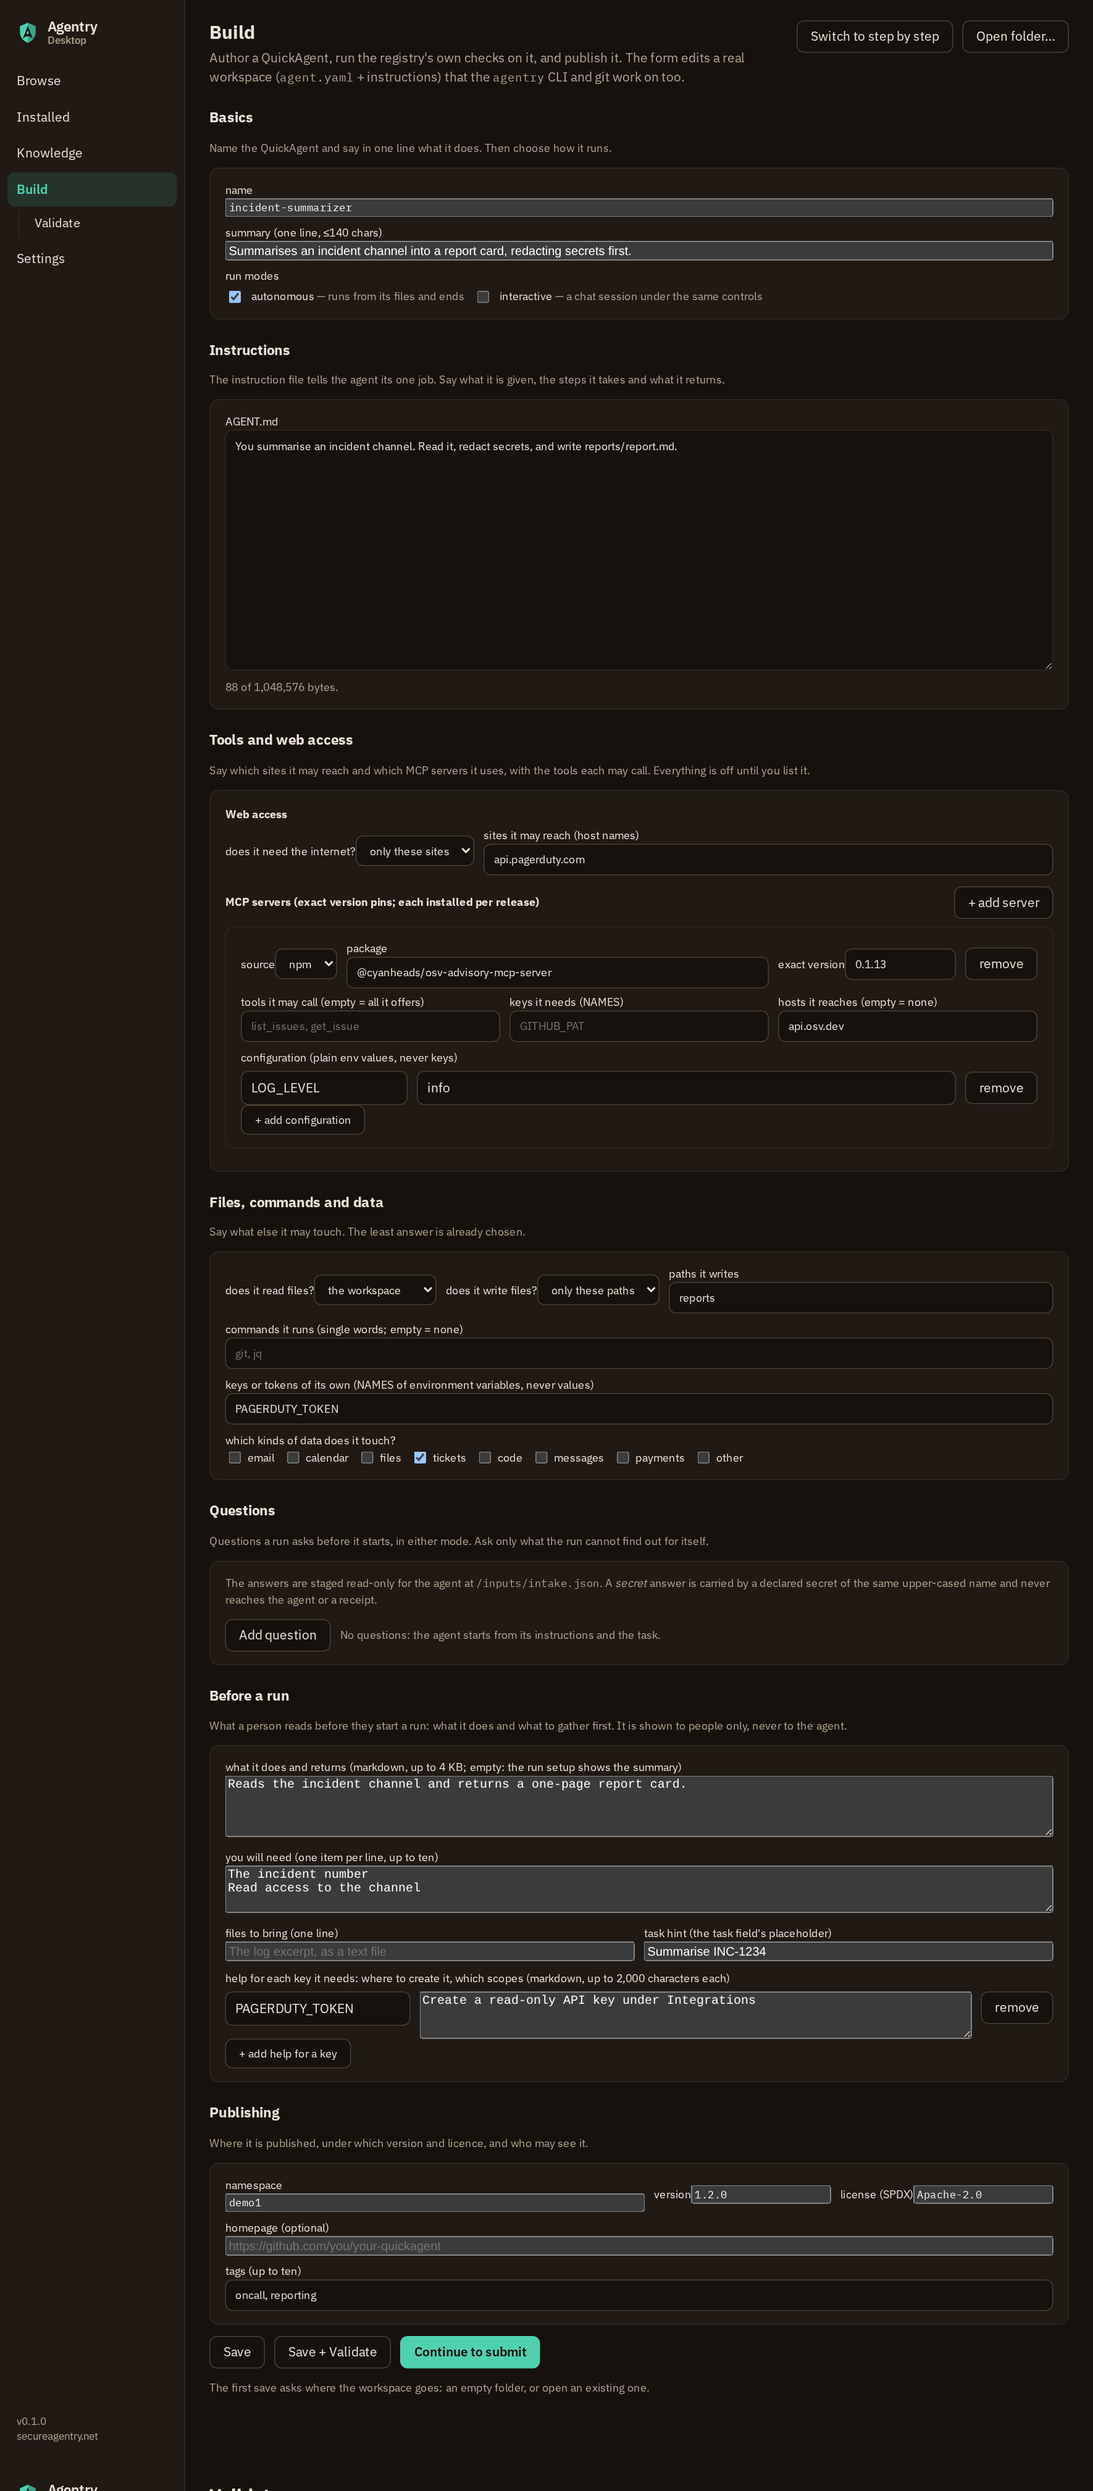
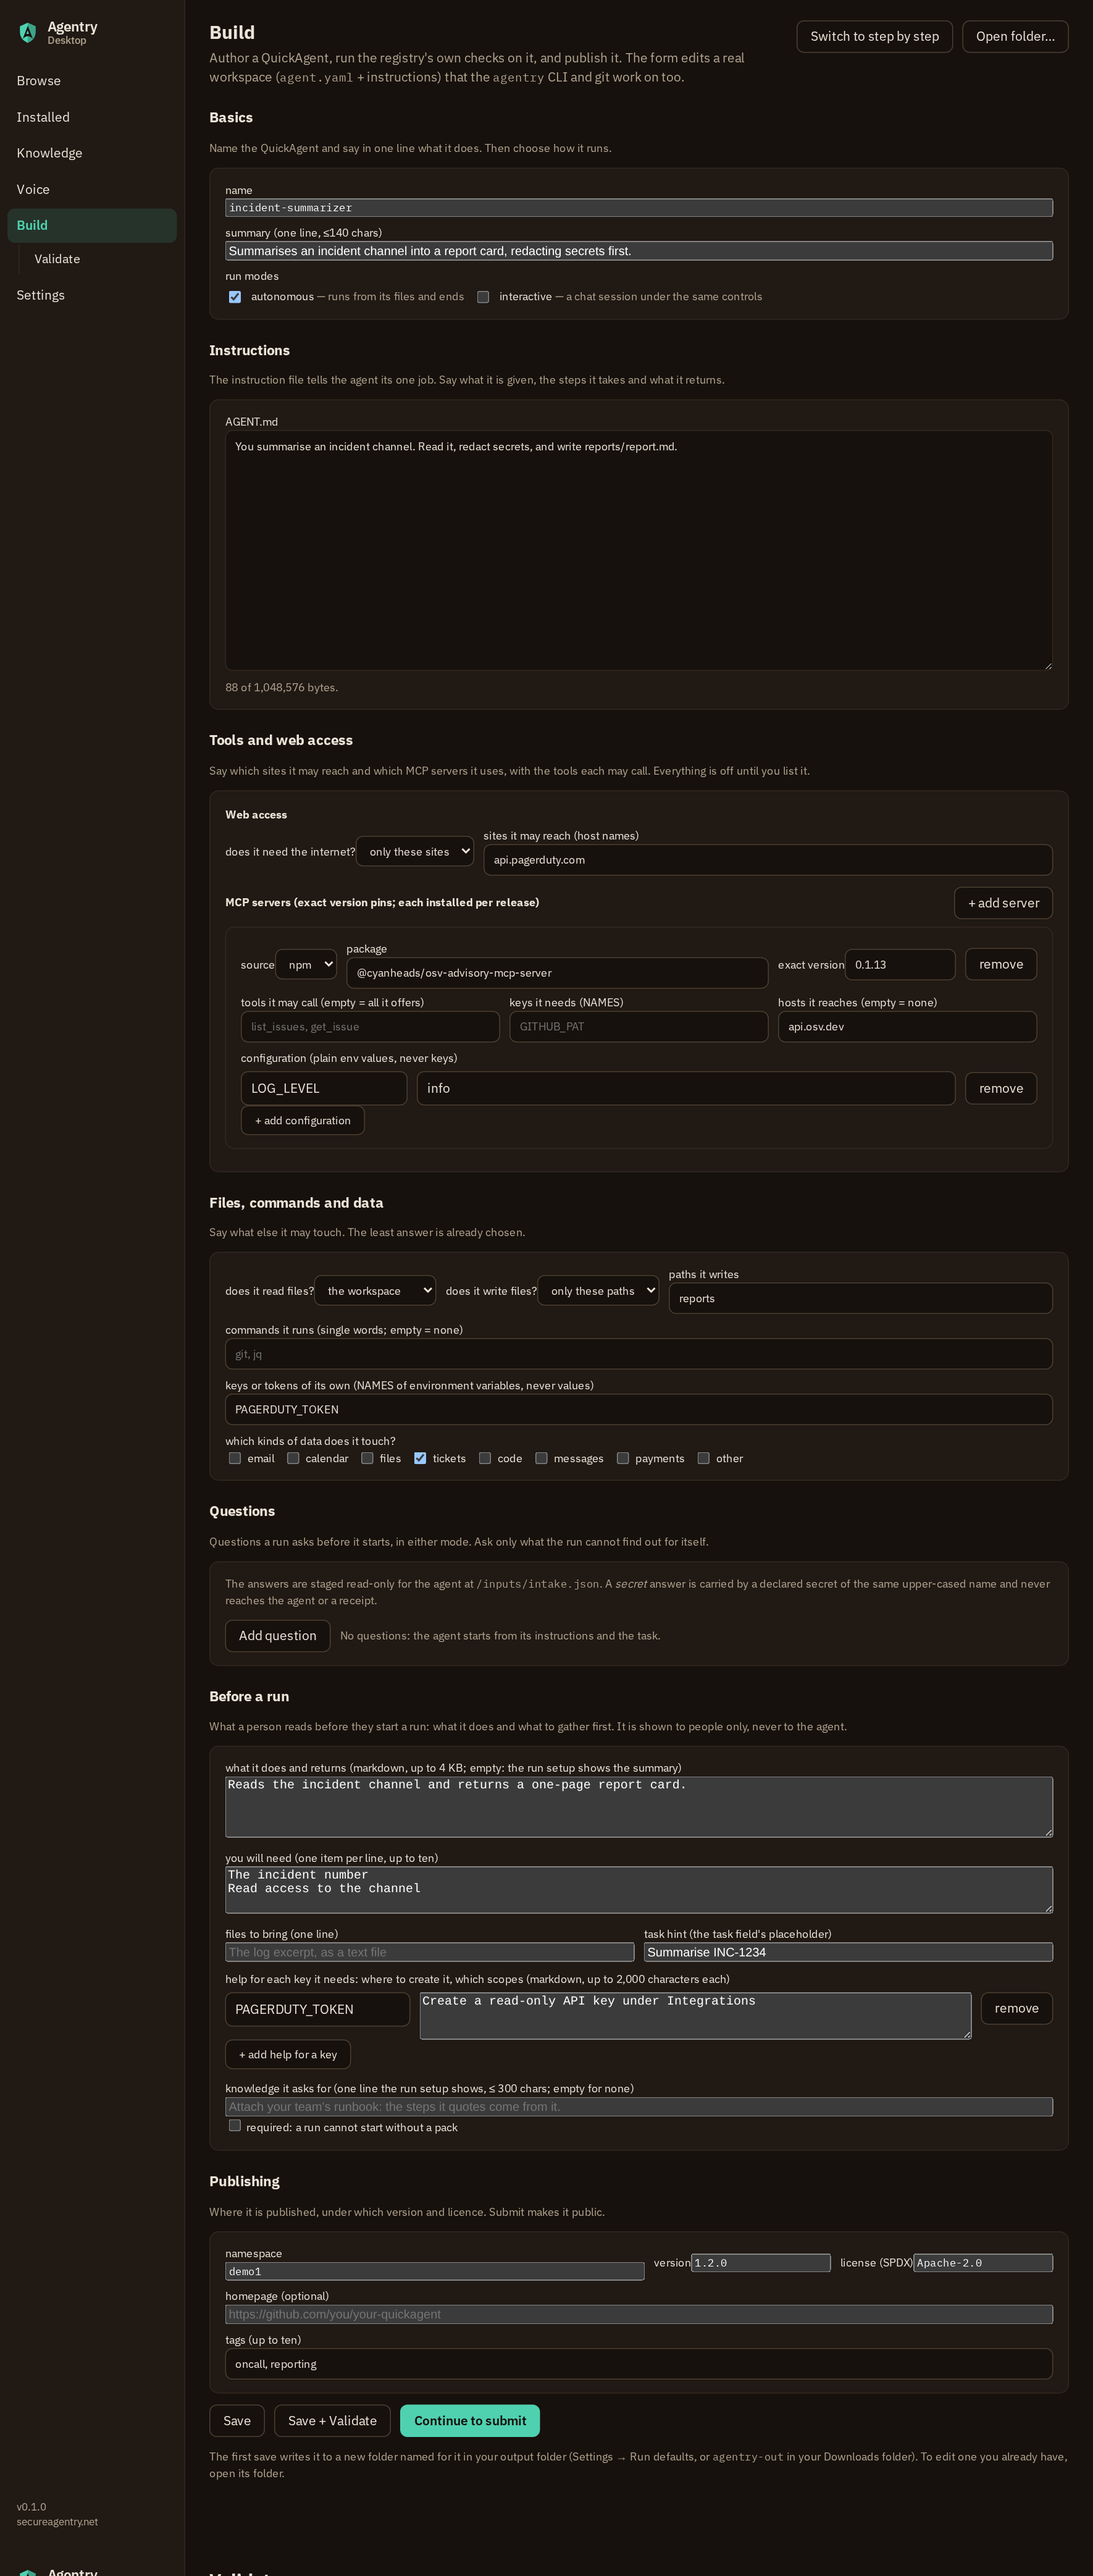
fix(build): the form's foot says where the first save goes, not that it asks
The live check of v0.6.47-dev.1 found the Advanced form's foot still
saying "The first save asks where the workspace goes: an empty folder,
or open an existing one." Since #585 no save asks: it now says the
first save writes to a new folder named for the QuickAgent in the
output folder, and that an existing one is opened with its folder.

Refs #585

diff --git a/frontend/src/pages/Build.tsx b/frontend/src/pages/Build.tsx
@@ -557,7 +557,7 @@ export default function Build({ registry, initialView = "start", initialStep = 0
   }
 
   // A draft made by Describe it: into the form, with no folder yet (the
-  // first save asks, D-030), and open on the summary (plan
+  // first save makes it, D-060), and open on the summary (plan
   // builder-simplify.md §4.1), private unless switched (D3).
   function takeDraft(v: main.DraftView) {
     if (!v.model) return;
@@ -579,7 +579,7 @@ export default function Build({ registry, initialView = "start", initialStep = 0
   }
 
   // A release opened by Edit: into the form under its own name at the next
-  // minor, with no folder yet (the first save asks, D-030), on the summary,
+  // minor, with no folder yet (the first save makes it, D-060), on the summary,
   // as a draft opens. What the Builder cannot hold was dropped in Go,
   // without a word (D6).
   function takeEdit(v: main.EditView) {
@@ -978,7 +978,7 @@ export default function Build({ registry, initialView = "start", initialStep = 0
         <Button variant="primary" disabled={!!busy} onClick={() => switchTo("summary")}>Continue to submit</Button>
       </div>
       <p className="muted small">
-        {dir ? <>Saves into <span className="mono selectable">{dir}</span>.</> : "The first save asks where the workspace goes: an empty folder, or open an existing one."}
+        {dir ? <>Saves into <span className="mono selectable">{dir}</span>.</> : <>The first save writes it to a new folder named for it in your output folder (Settings → Run defaults, or <span className="mono">agentry-out</span> in your Downloads folder). To edit one you already have, open its folder.</>}
       </p>
       {result && <ValidateCard result={result} />}
     </>
